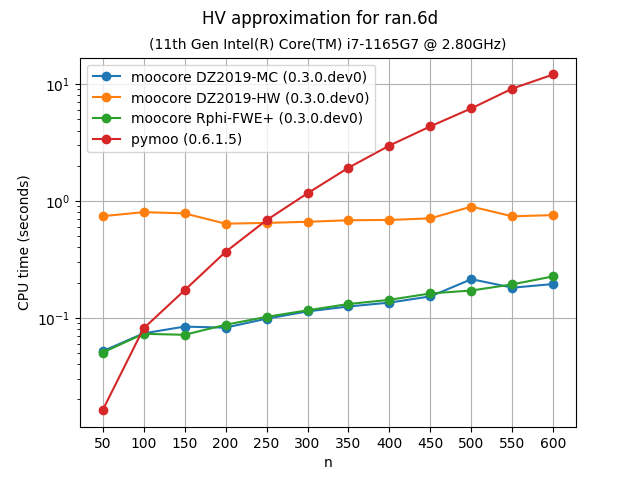
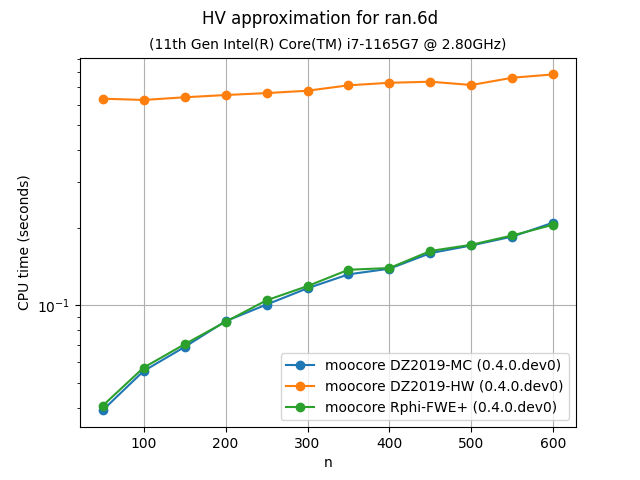
* python/benchmarks/bench_hvapprox.py: pymoo uses moocore now.  * python/doc/source/_static/bench/hvapprox_bench-*.png: Regenerate.  * python/doc/source/benchmarks.inc.rst: Update.

diff --git a/python/benchmarks/bench_hvapprox.py b/python/benchmarks/bench_hvapprox.py
@@ -19,10 +19,6 @@ from bench import (
     timeit_template_return_1_value,  # time_hv_exact
 )
 
-from pymoo.indicators.hv.monte_carlo import (
-    ApproximateMonteCarloHypervolume as pymoo_hvapprox,
-)
-
 # See https://github.com/multi-objective/testsuite/tree/main/data
 path_to_data = "../../testsuite/data/"
 assert pathlib.Path(path_to_data).expanduser().exists()
@@ -105,9 +101,6 @@ for name in names:
         ),
         "moocore Rphi-FWE+": lambda z, exact: relerror(
             exact, moocore.hv_approx(z, ref=ref, method="Rphi-FWE+")
-        ),
-        "pymoo": lambda z, exact, hv=pymoo_hvapprox(ref_point=ref): relerror(
-            exact, hv.add(z).hv
         ),
     }
     bench = Bench(

diff --git a/python/doc/source/benchmarks.inc.rst b/python/doc/source/benchmarks.inc.rst
@@ -20,9 +20,9 @@ Not all packages provide the same functionality. For example, `pymoo`_ does not
 provide the :ref:`epsilon indicator <epsilon_metric>`. `BoTorch`_ and
 `paretobench`_ only provide the hypervolume. `paretoset`_ and `fast-pareto`_
 only identify nondominated points. `seqme`_ already uses `moocore`_, and
-`DESDEO`_, `DEAP`_, `pymoo`_ and `jMetalPy`_ also use `moocore`_ for
-hypervolume, but other functionality, such as filtering dominated points, is
-still slower than `moocore`_.
+`DESDEO`_, `DEAP`_, `pymoo`_ and `jMetalPy`_ also use `moocore`_ for computing
+the hypervolume, but other functionality, such as filtering dominated points,
+is still slower than `moocore`_.
 
 We would like to benchmark `pygmo`_, however, it is currently impossible to install using ``pip`` (See https://github.com/esa/pygmo2/issues/152).
 
@@ -184,8 +184,7 @@ The following plots compare the accuracy and speed of approximating the
 hypervolume with the various methods provided by :func:`moocore.hv_approx`. The
 plots show that there is no clear winner, in terms of approximation error,
 between methods ``Rphi-FWE+`` (default) and ``DZ2019-HW``, but both produce
-consistently lower approximation errors than method ``DZ2019-MC`` and than
-`pymoo`_.  However, ``Rphi-FWE+`` is as fast as ``DZ2019-MC`` and both are consistently faster than ``DZ2019-HW``, in particular with higher number of objectives. The computation time of `pymoo`_ grows rapidly with the number of input points.
+consistently lower approximation errors than method ``DZ2019-MC``.  However, ``Rphi-FWE+`` is as fast as ``DZ2019-MC`` and both are consistently faster than ``DZ2019-HW``, in particular with higher number of objectives.
 
 If you compare the plots of **DTLZLinearShape-3d** and **DTLZLinearShape-4d** below to the ones above in the previous section, you can see that the exact computation of the hypervolume in 3D or 4D for thousands of points takes milliseconds, whereas approximating the hypervolume is significantly slower and, thus, not worth doing.
 
